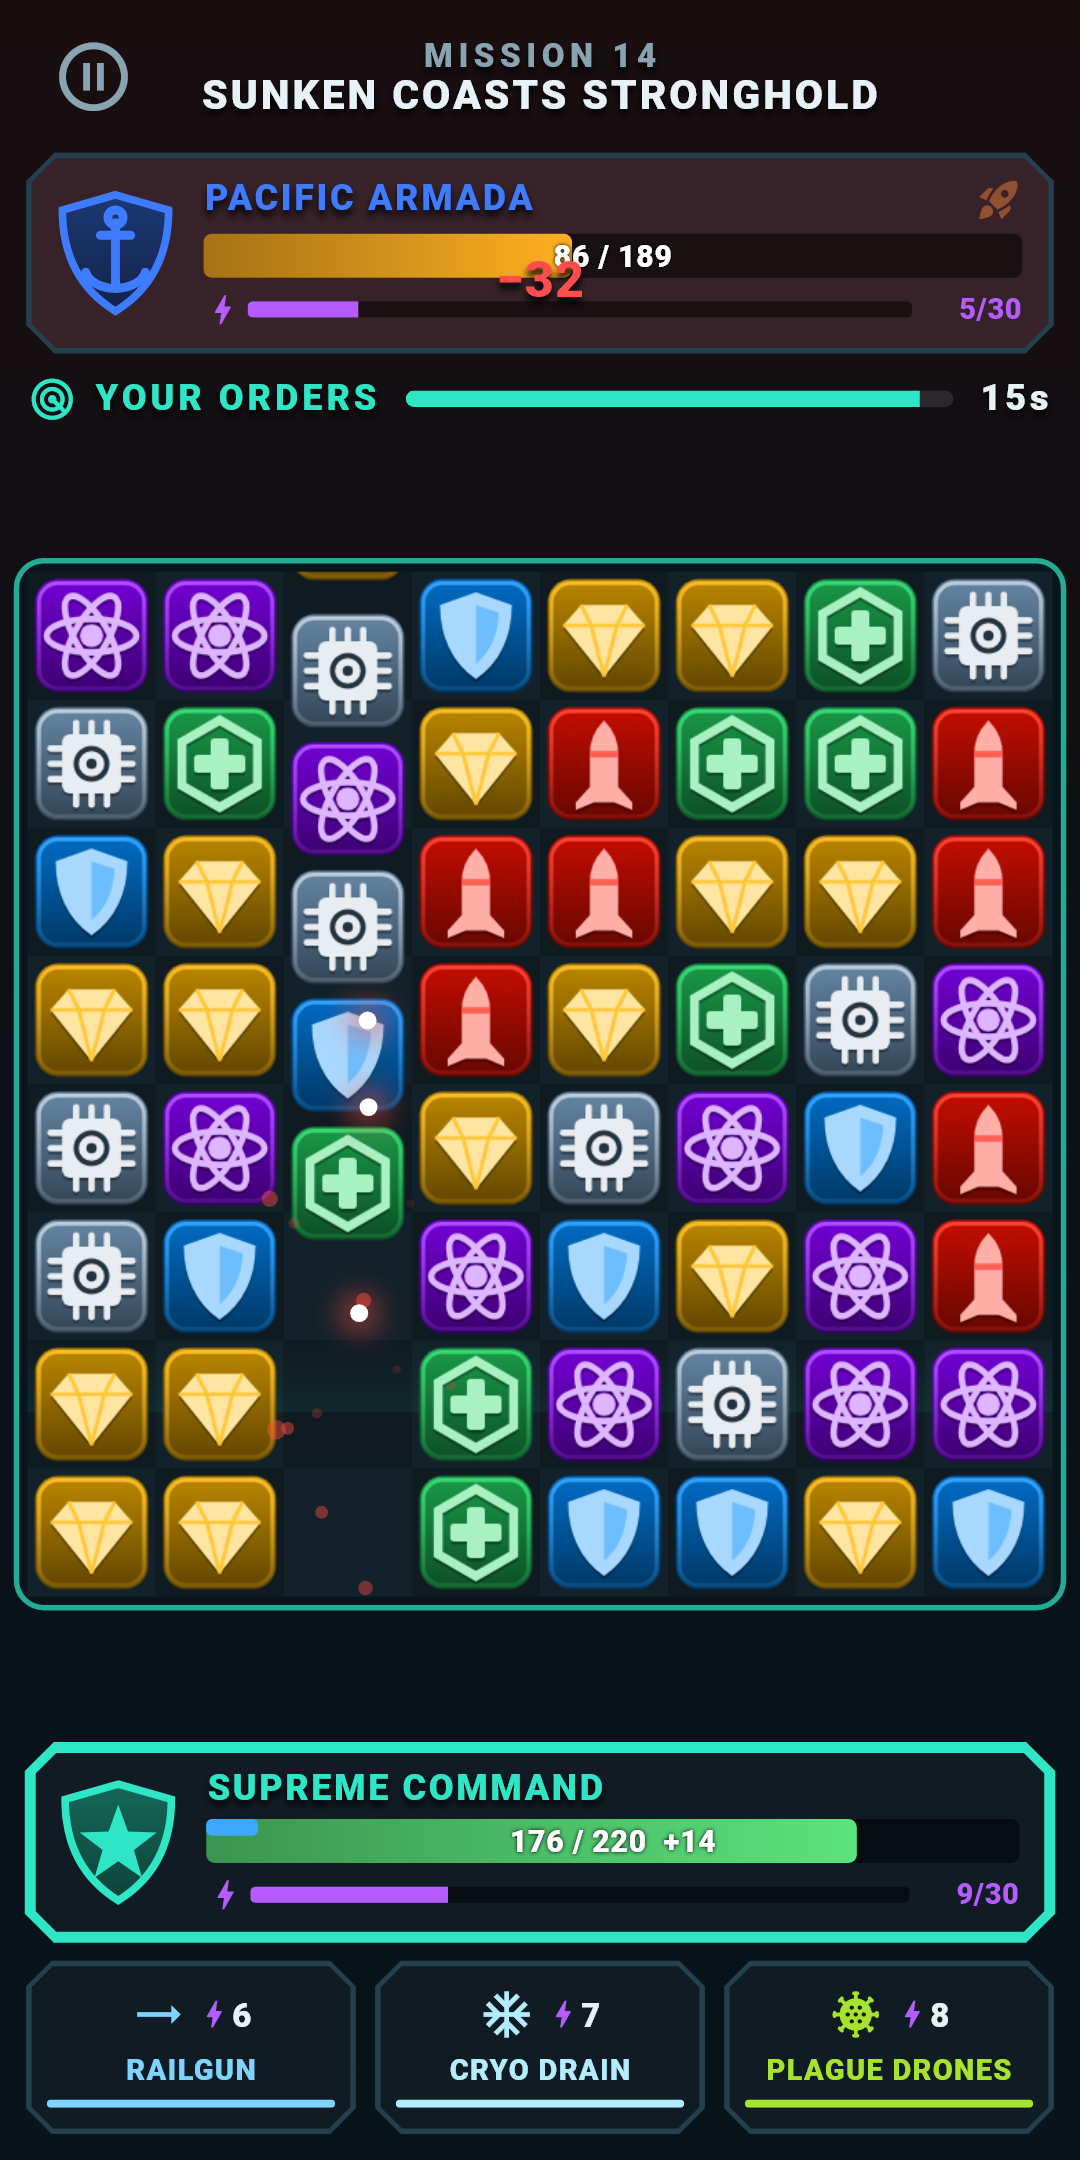
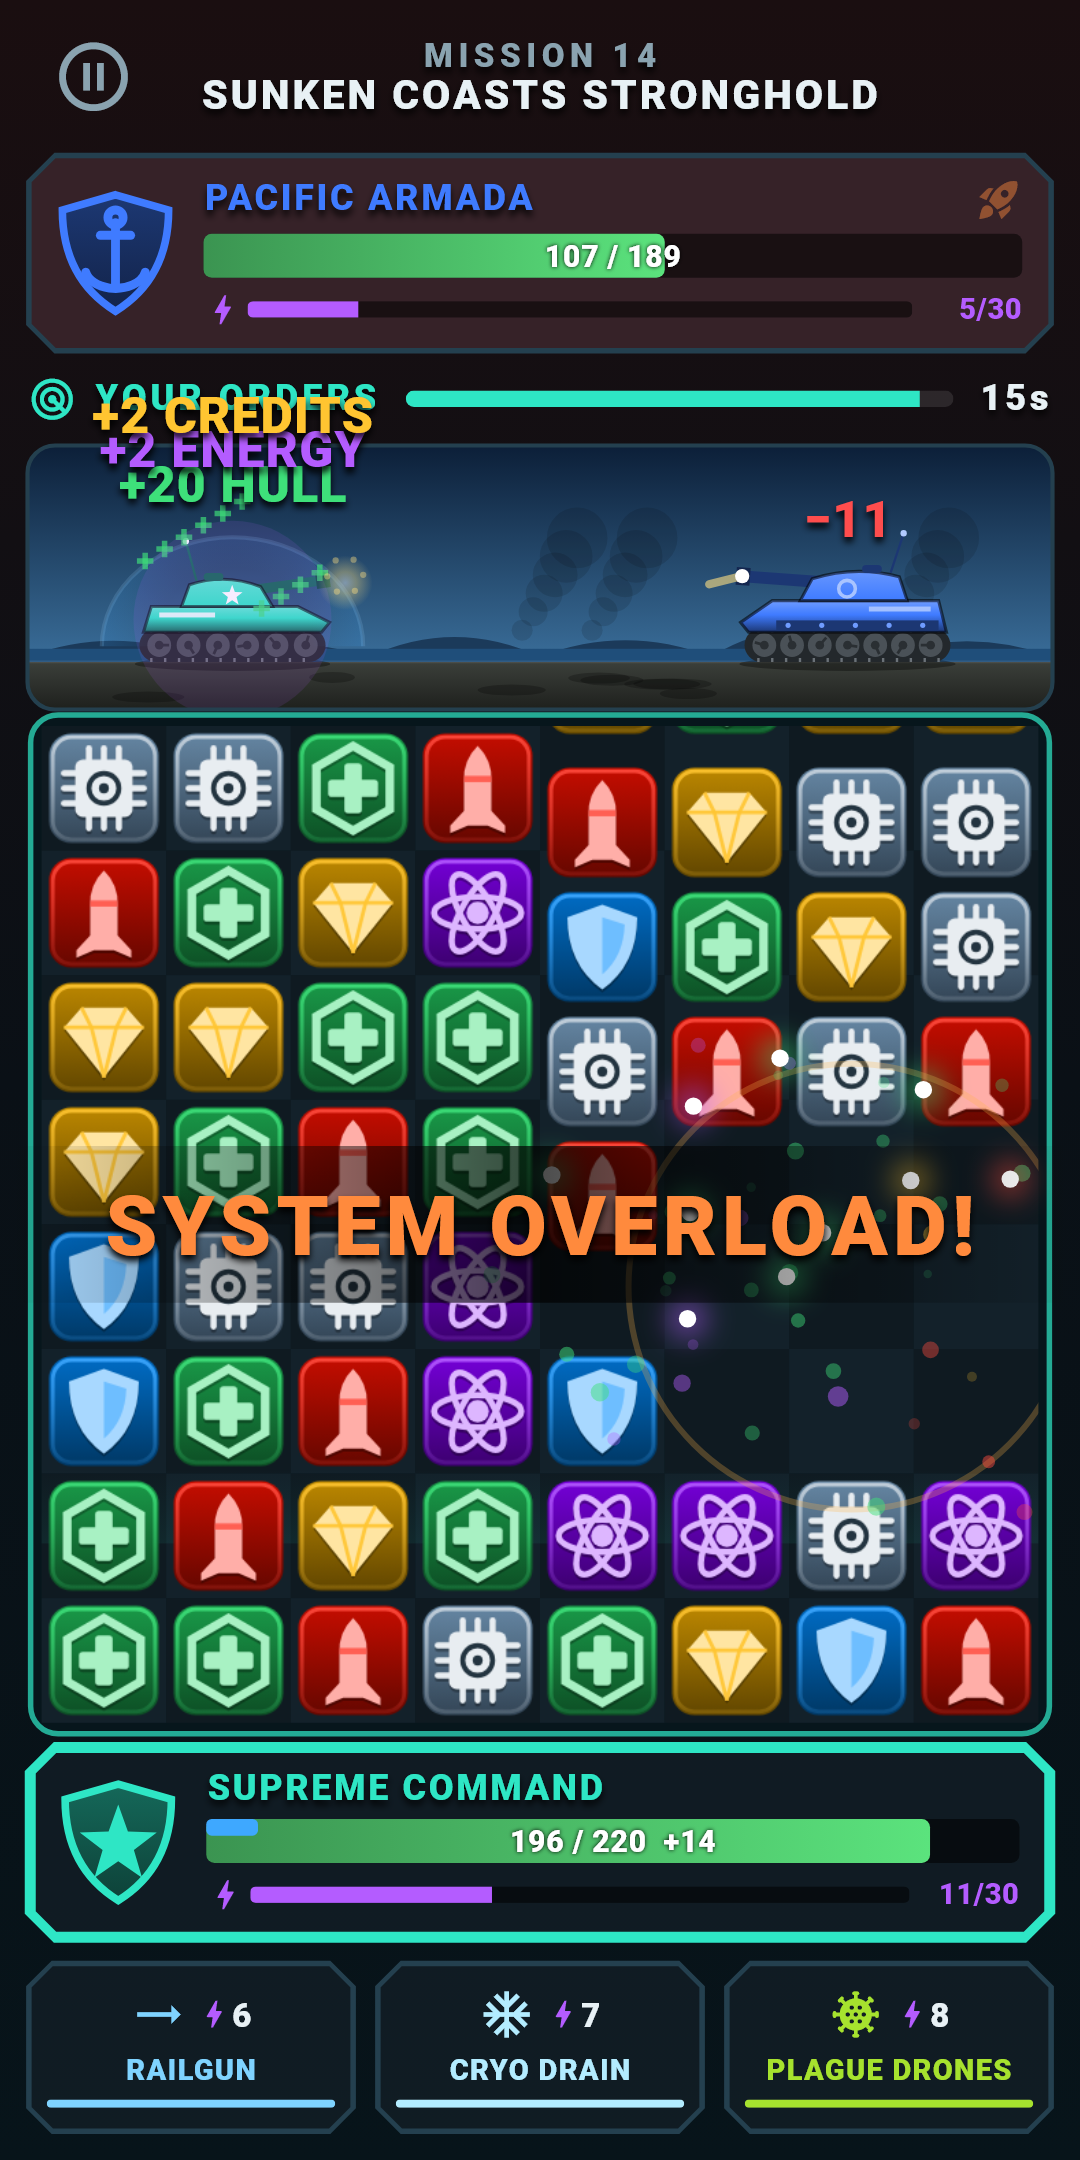
World War V 1.1: tank battlefield

diff --git a/worldwarv/index.html b/worldwarv/index.html
@@ -60,6 +60,8 @@
   <section class="features">
     <div class="card"><div class="emoji">🚀</div><h3>Match to fight</h3>
       <p>Line up Warheads to strike, Nano-bots to repair, Plasma Shields to defend and Quantum Cores to charge your superweapons.</p></div>
+    <div class="card"><div class="emoji">🪖</div><h3>Tank warfare</h3>
+      <p>Every match fires your tank’s cannon on a live battlefield above the grid, across 12 war-torn regions.</p></div>
     <div class="card"><div class="emoji">⏱</div><h3>Turn-based duels</h3>
       <p>You and the enemy commander share one grid, 15 seconds per turn. Match 4 for an armour-piercing strike and an extra turn.</p></div>
     <div class="card"><div class="emoji">💣</div><h3>System Overload</h3>
@@ -78,7 +80,7 @@
     <img src="img/screen-02.png" alt="Firing the Railgun superweapon" loading="lazy">
     <img src="img/screen-03.png" alt="The war map with 12 warlords" loading="lazy">
     <img src="img/screen-04.png" alt="Assaulting a faction capital" loading="lazy">
-    <img src="img/screen-05.png" alt="Victory screen" loading="lazy">
+    <img src="img/screen-05.png" alt="Tanks clashing in the World War V intro" loading="lazy">
   </div>
 </main>
 
